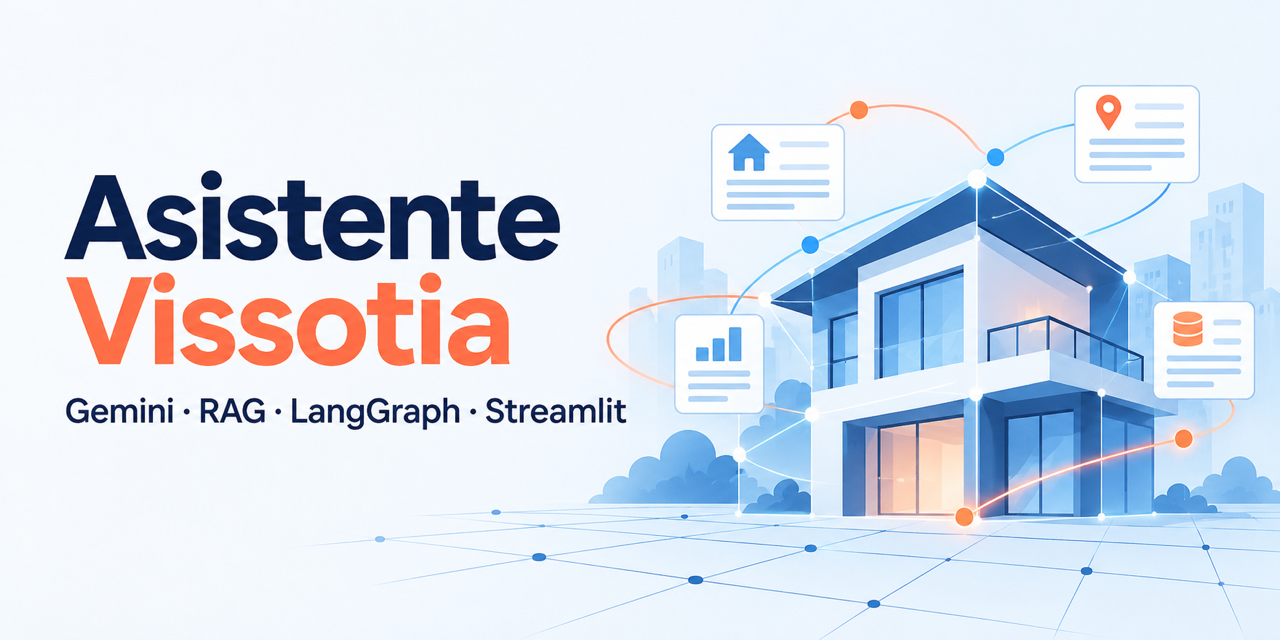
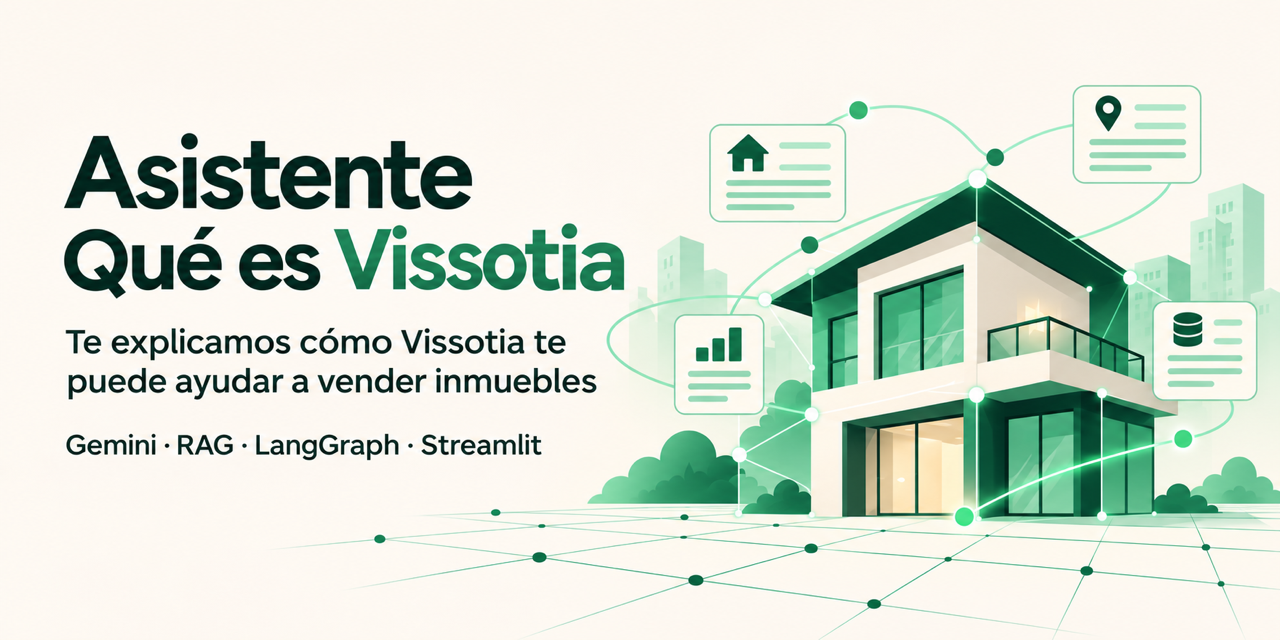
Refine repository preview branding

diff --git a/README.md b/README.md
@@ -1,6 +1,6 @@
 # Asistente Vissotia
 
-![Asistente Vissotia: Gemini, RAG, LangGraph y Streamlit](docs/assets/github-social-preview.png)
+![Asistente Qué es Vissotia: explicación para vender inmuebles con Gemini, RAG, LangGraph y Streamlit](docs/assets/github-social-preview.png)
 
 MVP académico de un asistente público sobre Vissotia construido con Google Gemini, RAG,
 ChromaDB, LangGraph y Streamlit.
